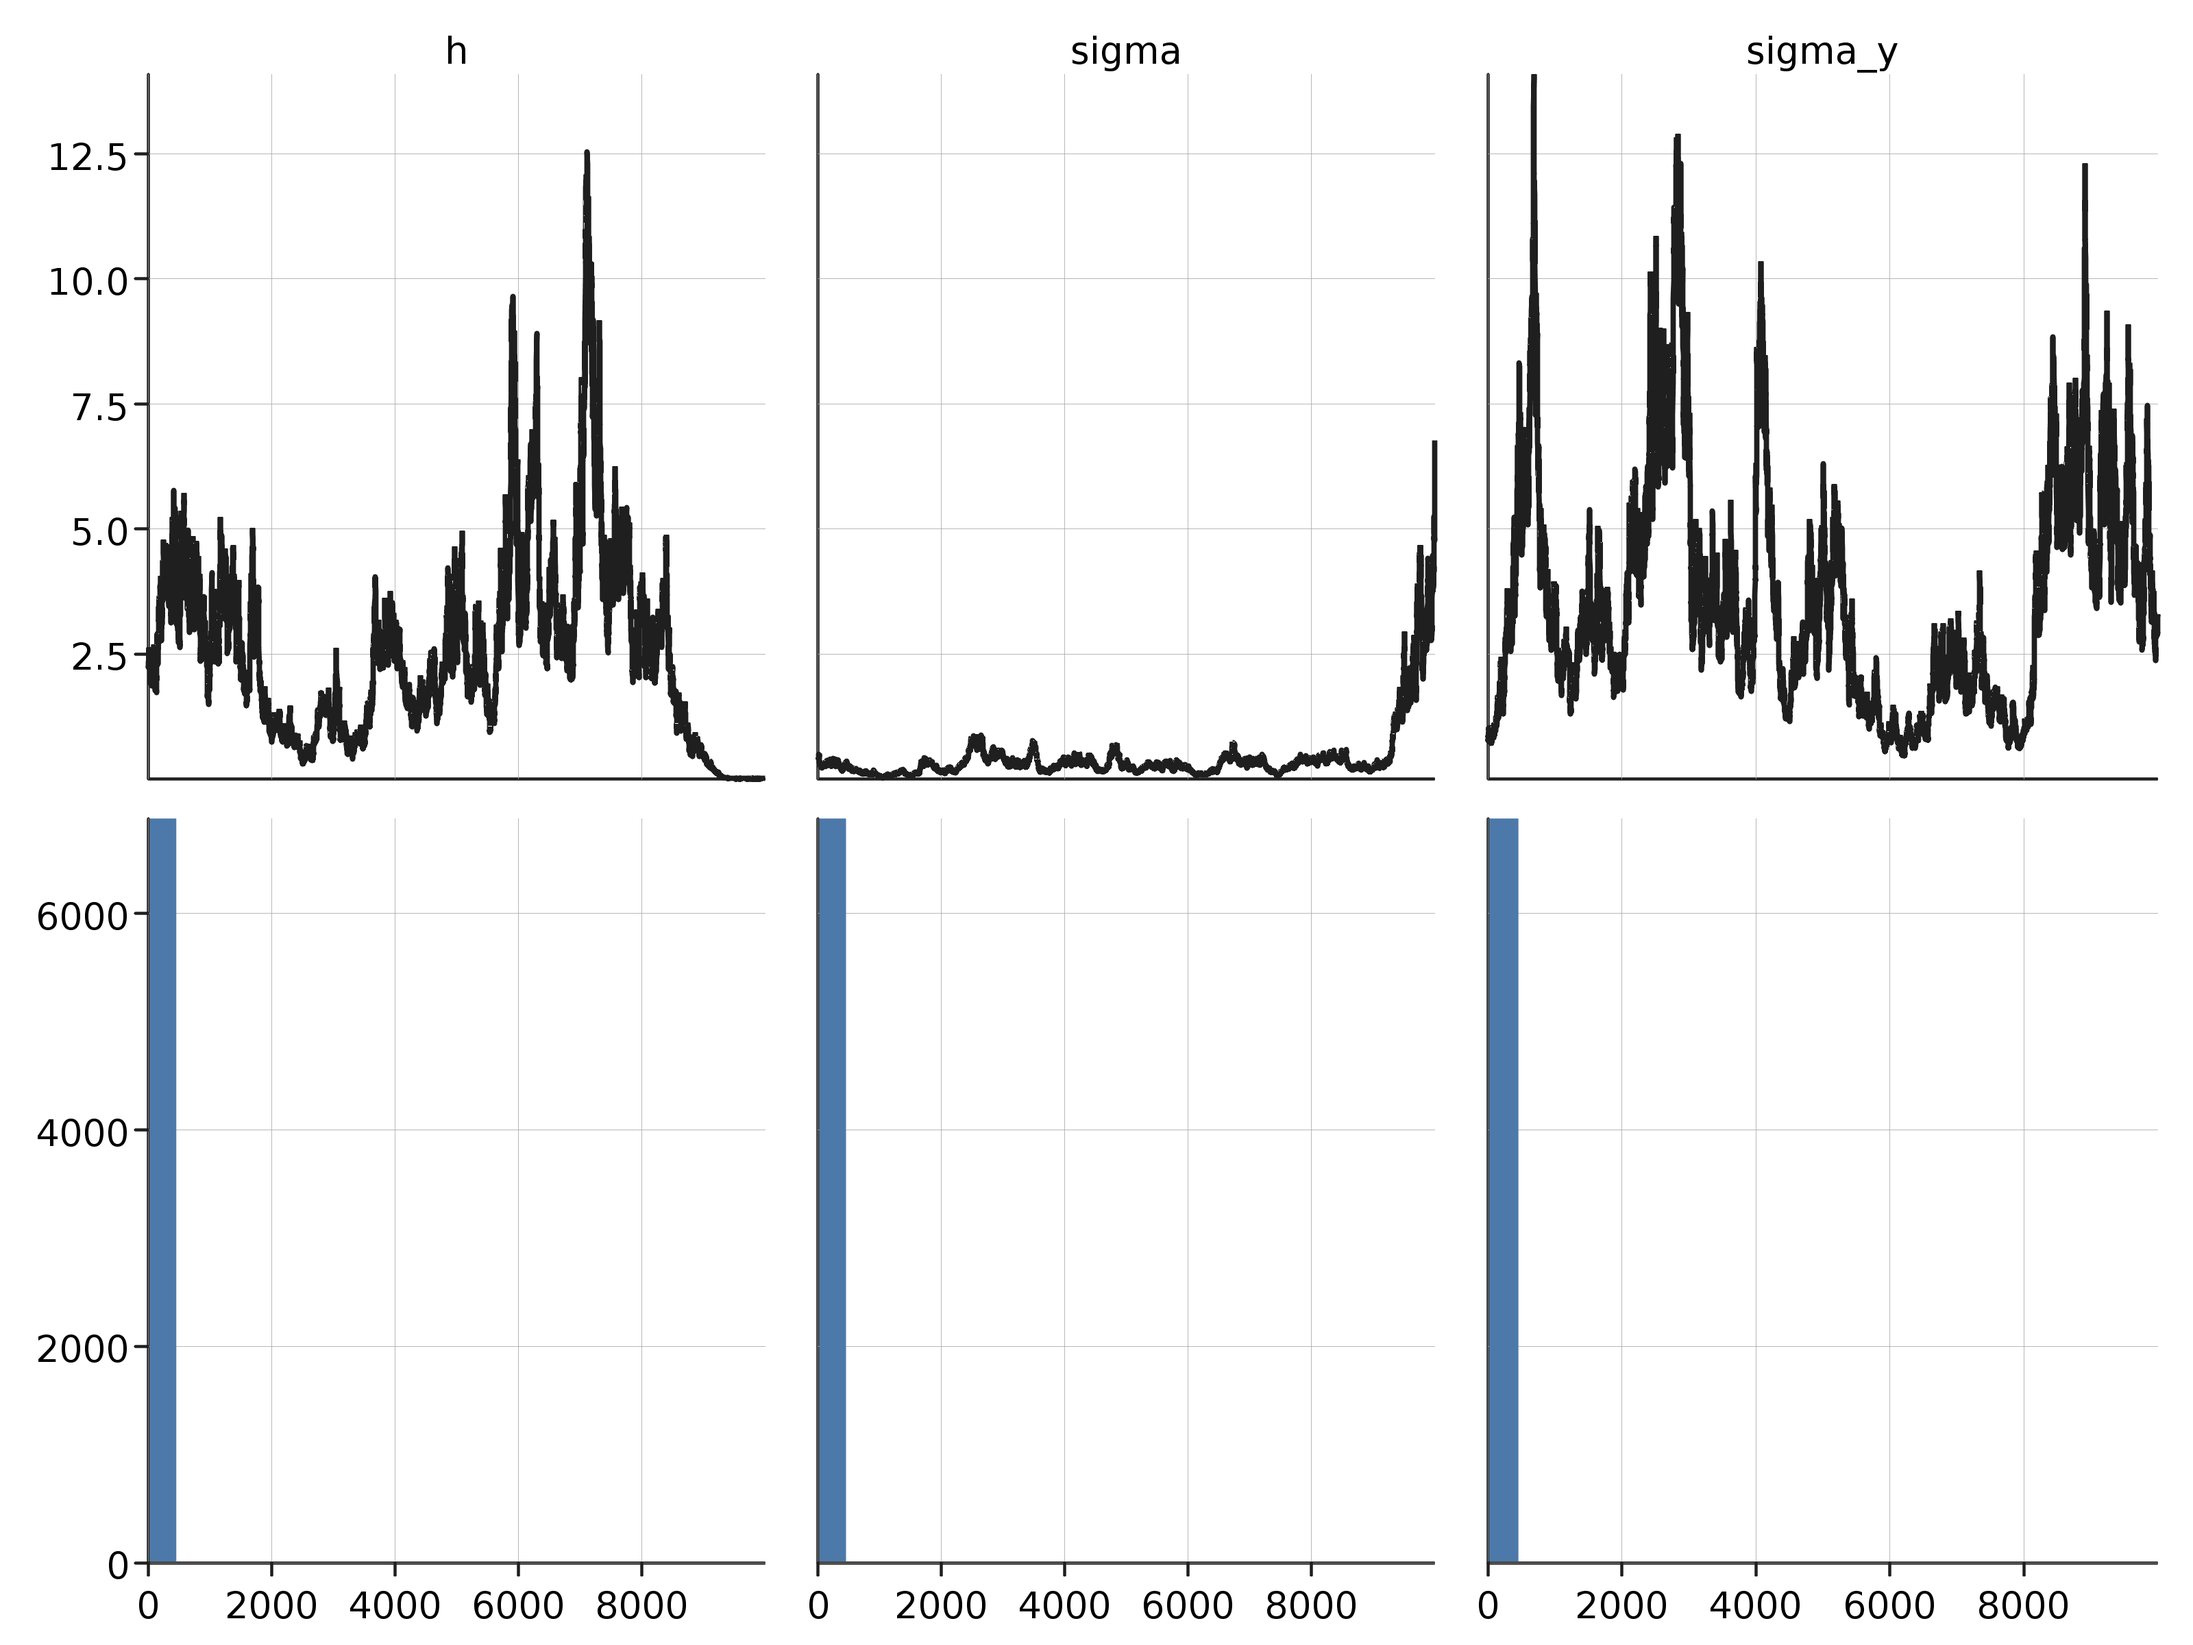
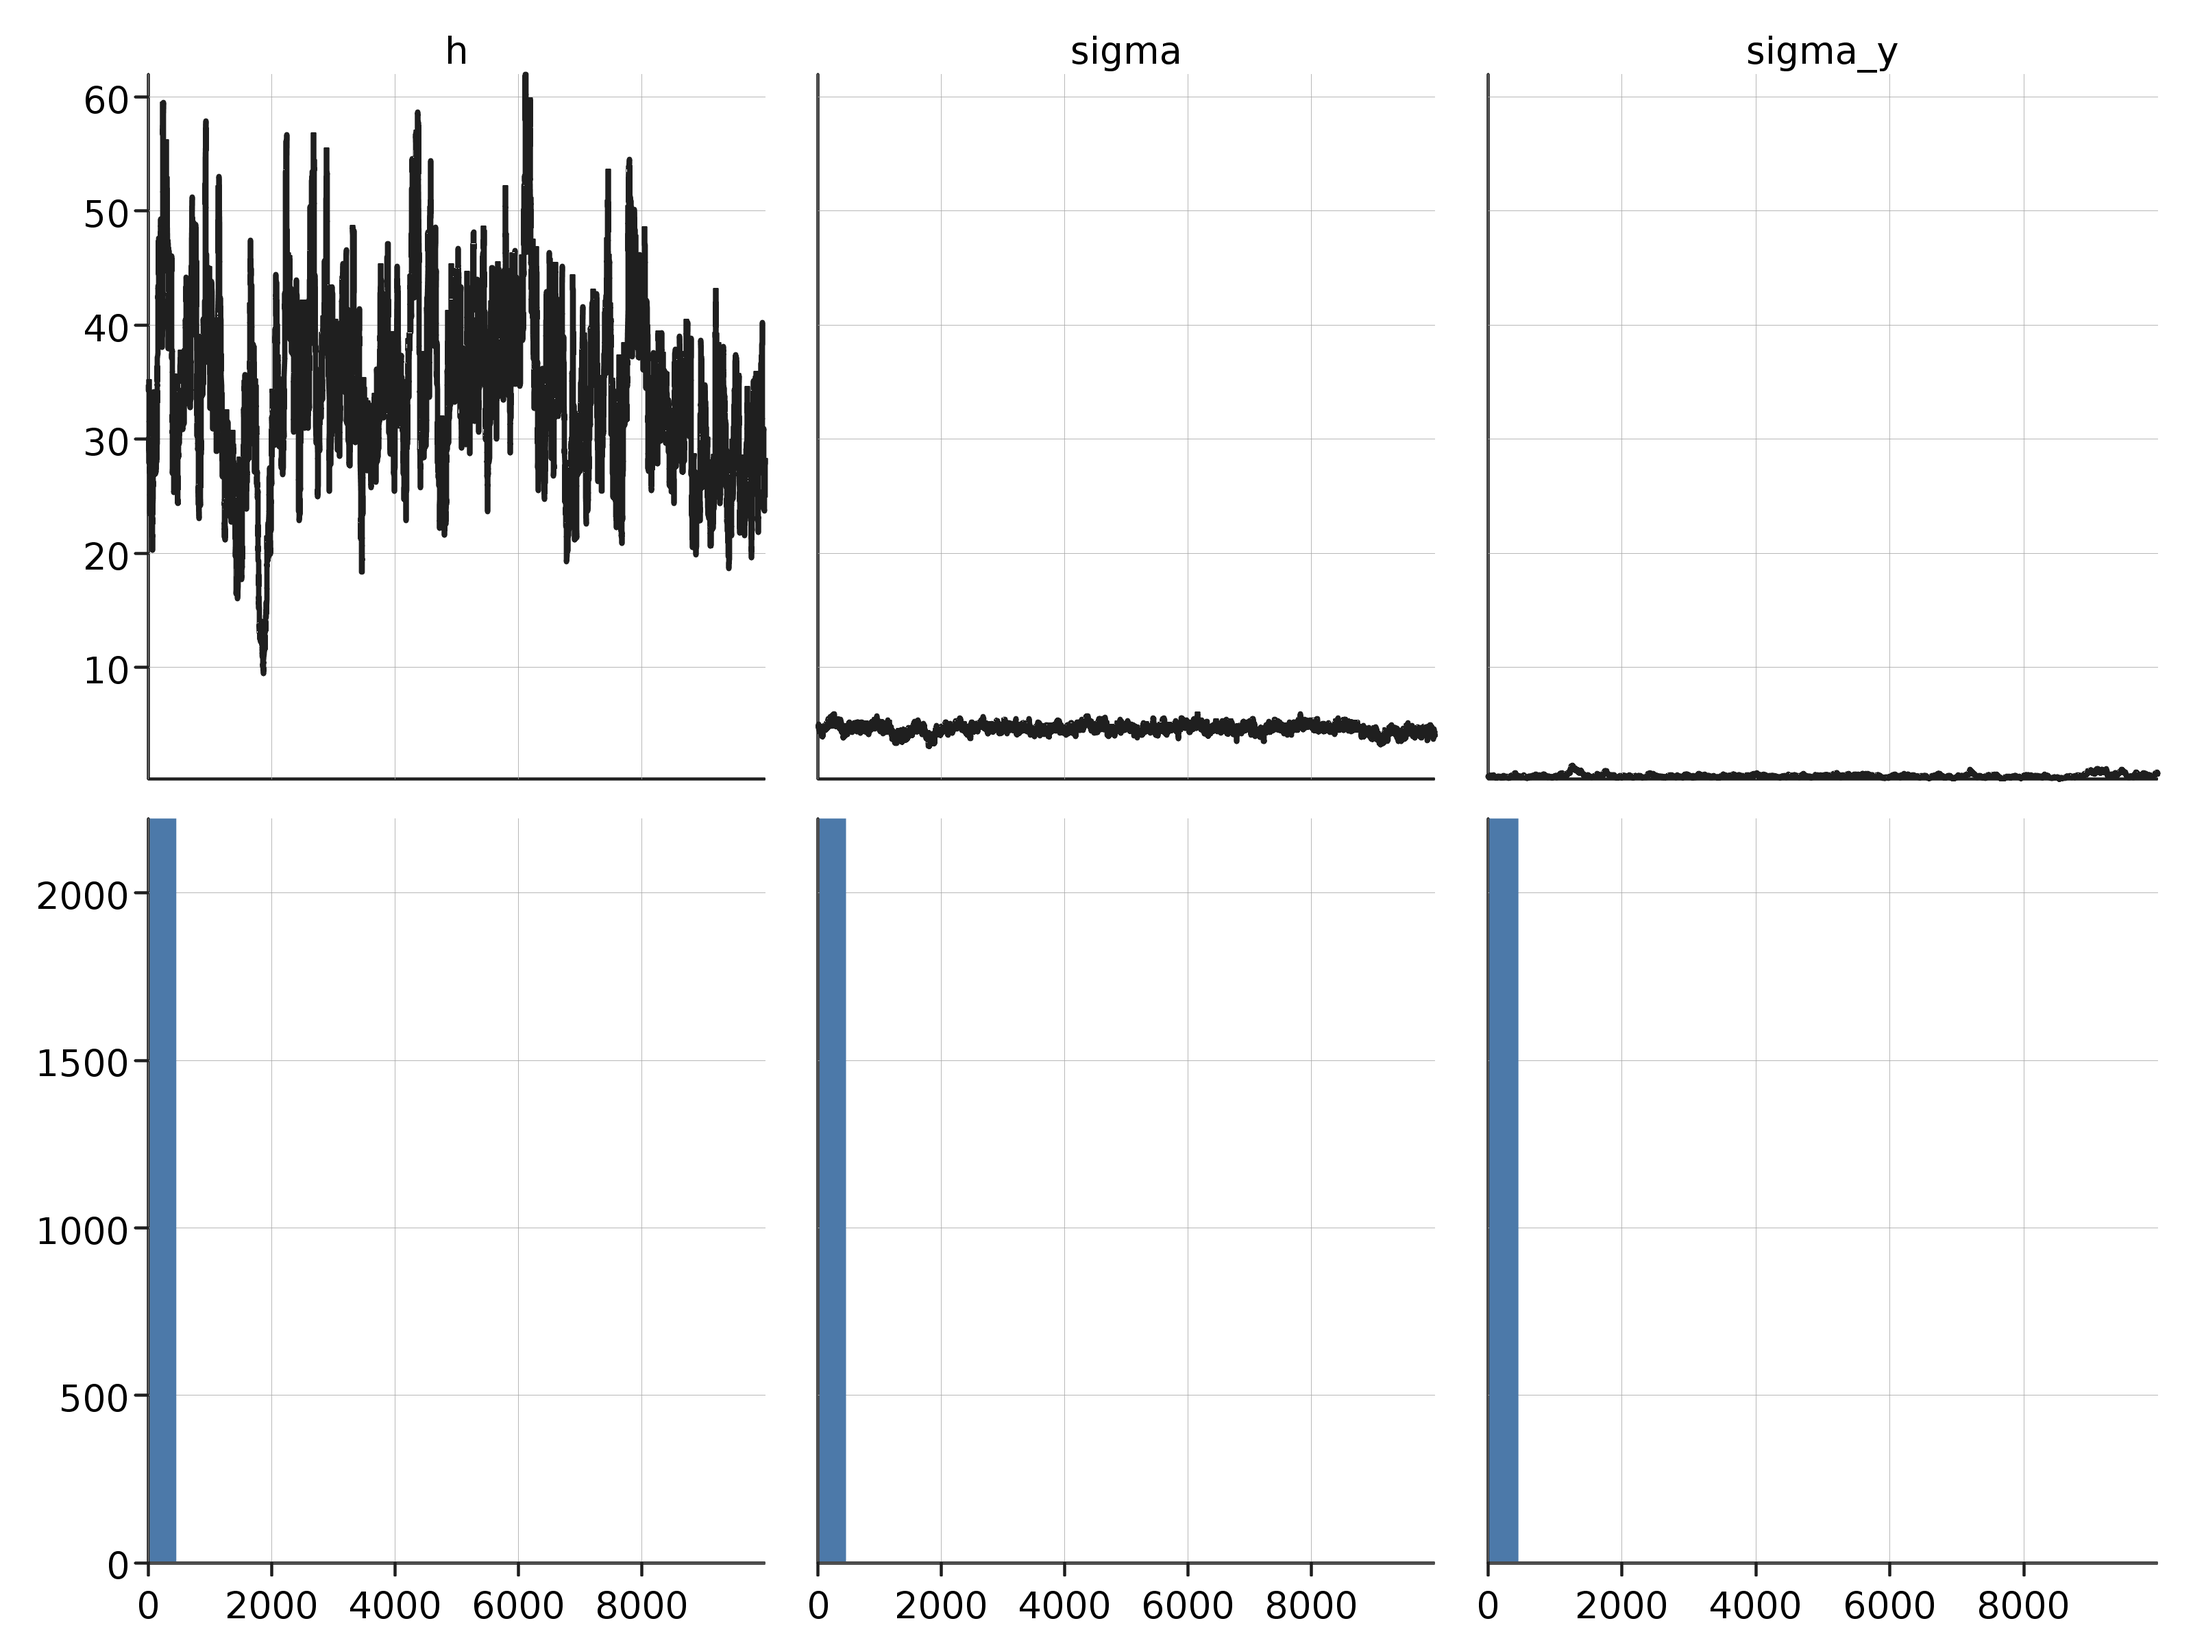
HMC for GPs

diff --git a/docs/src/main/tut/docs/parameter_inference.md b/docs/src/main/tut/docs/parameter_inference.md
@@ -101,7 +101,7 @@ hyper-parameters given the observed data,  observing only every 15th point:
 ```tut:silent
 val observed = GaussianProcess.vecToData(ys, xs).
     zipWithIndex.
-    filter { case (_, i) => (i + 1) % 15 == 0 }.
+    filter { case (_, i) => (i + 1) % 10 == 0 }.
     map(_._1)
 
 val step = KernelParameters.sample(observed, dist, prior, proposal(0.05))
@@ -141,10 +141,11 @@ def discreteUniform(min: Int, max: Int) = new Rand[Int] {
   def draw = scala.util.Random.nextInt(max - min) + min
 }
 
-val replicates = 10
+val replicates = 50
 
-// sample from the parameters and perform a fit
-val indices = discreteUniform(0, iters.size).sample(replicates).toVector
+// uniformly sample indices
+val indices = discreteUniform(0, iters.size).
+  sample(replicates).toVector
 
 // create a regular grid of points to draw from the GP posterior
 implicit val integralD = scala.math.Numeric.DoubleAsIfIntegral
@@ -158,14 +159,44 @@ val parameters = indices.toVector.map(i => iters(i))
 val res = parameters.map(predict)
 ```
 
-The draws from the posterior distribution can then be plotted:
+The posterior mean of the latent function at each of the `p = 50` sampled parameters can be plotted:
 
 ```tut:silent
-Plot.ppPlot(res).
+com.cibo.evilplot.plot.Overlay(Plot.ppPlot(res), Plot.scatterPlot(observed)).
   render().
   write(new java.io.File("docs/src/main/resources/figures/posterior_predictive_gp.png"))
 ```
 
-<img src="../img/posterior_predictive_gp.png" alt="Parameter diagnostics" width="600"/>
+<img src="../img/posterior_predictive_gp.png" alt="Posterior predictive distribution" width="600"/>
 
-# HMC and eHMC
+# Hamiltonian Monte Carlo
+
+Hamiltonian Monte Carlo (HMC) methods can be used to determine the posterior
+distribution of the hyper-parameters. HMC uses the gradient of the log-posterior
+in order to make more efficient proposals. 
+
+```tut:silent
+import breeze.linalg.DenseMatrix
+
+val alpha = 2.0
+val beta = 2.0
+val priorSigma = GradDist.gamma(Gamma(alpha, 1.0 / beta))
+val priorH = GradDist.gamma(Gamma(alpha, 1.0 / beta))
+val priorSigmaY = GradDist.gamma(Gamma(alpha, 1.0 / beta))
+val prior = Vector(priorSigma, priorH, priorSigmaY)
+
+KernelParameters.sampleHmc(observed, dist, init,
+  prior, DenseMatrix.eye[Double](3), 5, 0.2).
+  steps.
+  take(10).
+  toVector.
+  foreach(println)
+```
+
+The parameter diagnostics for the HMC method with 5 leapfrog steps and step-size 0.2
+
+<!-- ```tut:silent -->
+<!-- Diagnostics.diagnostics(hmcIters.map { ps => ps.toMap }). -->
+<!--   render(). -->
+<!--   write(new java.io.File("docs/src/main/resources/figures/parameters_weakly_informative_gp.png")) -->
+<!-- ``` -->
